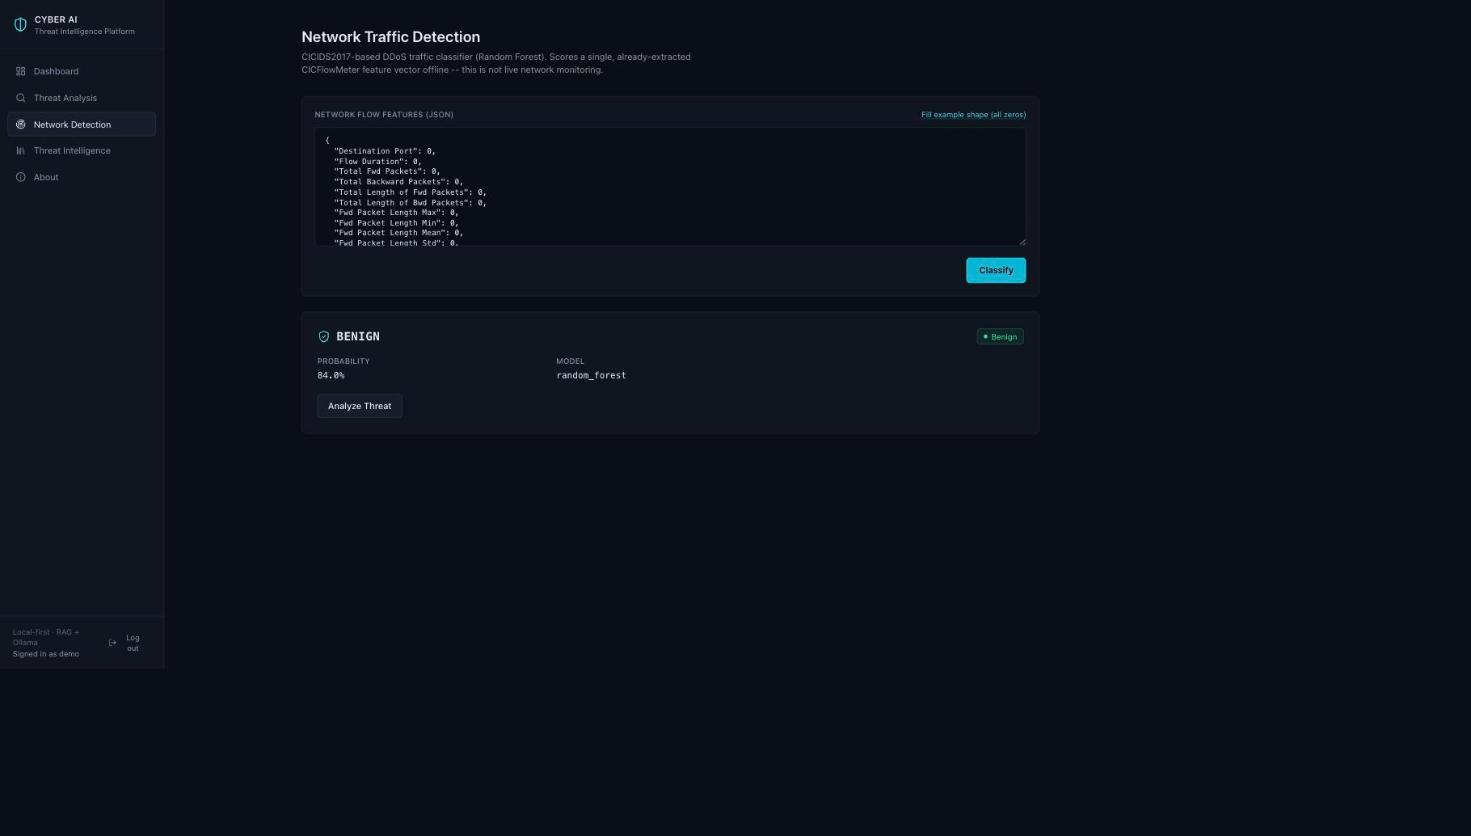
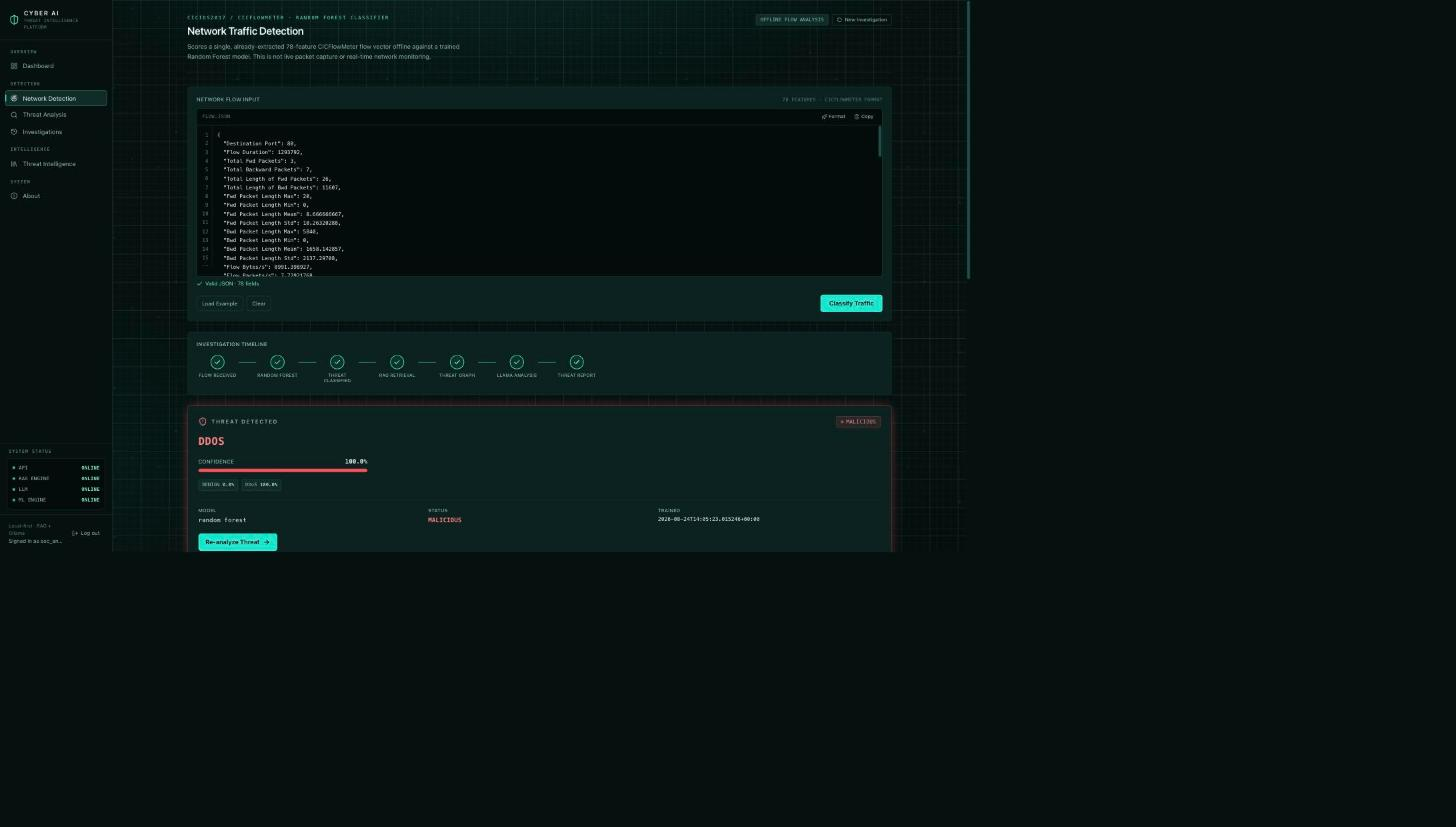
docs: finalize product documentation and screenshots

diff --git a/RELEASE_NOTES.md b/RELEASE_NOTES.md
@@ -5,18 +5,27 @@ history. This describes the state of the repository at the end of its final engi
 
 ## Frontend
 
-React (Vite + TypeScript + Tailwind) single-page dashboard: login-gated routing, a threat-analysis
-query page, a network-traffic classification page, a threat-intelligence graph view, and an about
-page. Talks to the backend directly (cross-origin, credentialed requests), not through a proxy.
-Served in production by an nginx container built from the static `vite build` output.
+React (Vite + TypeScript + Tailwind) single-page dashboard, gated behind a Login page (with a
+Register page for creating a new account): a Dashboard (live backend/RAG/LLM/classifier status), a
+Network Detection page (classify a CICFlowMeter-style flow, optionally run AI analysis, save the
+result to an investigation), a Threat Analysis query page, a Threat Intelligence page, an
+Investigations page (a registered account's saved investigation history — reopen or permanently
+delete an investigation, with a confirmation dialog before deleting), and an About page. Talks to
+the backend directly (cross-origin, credentialed requests), not through a proxy. Served in
+production by an nginx container built from the static `vite build` output.
 
 ## Backend API
 
-FastAPI service exposing 14 endpoints across three groups: public (`/`, `/health`, `/ready`,
-`/threats`, `/intelligence/entities`, `/intelligence/graph/{threat_id}`), authentication
-(`/auth/login`, `/auth/logout`, `/auth/me`), and protected (`/analyze`, `/classify`,
-`/ml/feature-importance`, `/analyze/classification`, `/intelligence/search`). See README **Backend
-Endpoints** and **Authentication** for the exact, current, verified list.
+FastAPI service exposing 22 endpoints across three groups: public (`/`, `/health`, `/ready`,
+`/metrics`, `/threats`, `/intelligence/entities`, `/intelligence/graph/{threat_id}`), authentication
+(`/auth/register`, `/auth/login`, `/auth/logout`, `/auth/me`), and protected (`/analyze`,
+`/classify`, `/ml/feature-importance`, `/analyze/classification`, `/intelligence/search`, and the
+`/investigations` family: `POST /investigations`, `GET /investigations`, `GET
+/investigations/{id}`, `POST /investigations/{id}/classification-results`, `POST
+/investigations/{id}/classification-results/{id}/analysis-result`, and `DELETE
+/investigations/{investigation_id}` — create/list/view/delete a persistent investigation and persist
+an already-computed classification/analysis result into one). See README **Backend Endpoints** and
+**Authentication** for the exact, current, verified list.
 
 ## ML detection
 
@@ -59,8 +68,11 @@ latency. Never trains, retrains, or modifies the production model or dataset. Se
 
 API-key and browser-session (HttpOnly cookie + CSRF double-submit) authentication, an explicit CORS
 allowlist, IP-keyed rate limiting, request-ID correlation, structured JSON logging, and standard
-security response headers. See README **Security Checklist** for the consolidated, section-linked
-status of every control.
+security response headers. Persistent investigations are session-user-only (never available to
+API-key callers or the demo/bootstrap login) and every read/write is scoped to the requesting
+user's own account directly in the database query — a nonexistent investigation and one owned by a
+different user are both a `404`, never a data leak. See README **Security Checklist** for the
+consolidated, section-linked status of every control.
 
 ## Deployment architecture
 

diff --git a/README.md b/README.md
@@ -74,8 +74,19 @@ caveat in detail.
 
 ## Screenshots
 
-Real captures from a local run against the real backend, real trained classifier, and real Ollama
-model — not mockups.
+Real captures from a local run against the real backend, real trained classifier, real Ollama
+model, and a real registered account — not mockups, and not the demo/bootstrap session.
+
+**Dashboard** — live backend/RAG/LLM/classifier status for the signed-in account, plus that
+account's most recent saved investigation:
+
+![Dashboard page showing live API, RAG engine, vector store, LLM, and ML engine status, plus a Recent Investigation card for a BENIGN result](docs/screenshots/dashboard.jpg)
+
+**Network Detection** — a real CICIDS2017 DDoS flow, classified by the Random Forest model, with
+the full Investigation Timeline (classification → RAG retrieval → threat graph → LLM analysis →
+threat report) already complete:
+
+![Network Detection page showing a DDoS classification at 100% confidence and a completed Investigation Timeline](docs/screenshots/network-detection.jpg)
 
 **Threat Analysis** — a real `/analyze` query ("How can DDoS attacks be mitigated?"), showing the
 deterministic MITRE ATT&CK technique, graph-derived mitigations, and source attribution alongside
@@ -83,15 +94,24 @@ the LLM-generated narrative:
 
 ![Threat Analysis page showing a DDoS attack analysis with severity, MITRE ATT&CK technique T1498, indicators, mitigations, and source attribution](docs/screenshots/threat-analysis.jpg)
 
-**Network Detection** — the Random Forest classifier scoring a CICFlowMeter-style feature vector
-(the all-zero example shape, not real captured traffic):
-
-![Network Detection page showing a BENIGN classification result with 84% probability from the random_forest model](docs/screenshots/network-detection.jpg)
-
 **Threat Intelligence graph** — the deterministic, one-hop relationship graph for one threat entity,
 rendered as a radial node-link diagram (plain SVG, no charting library):
 
 ![Threat Intelligence graph view showing the DDoS Attack entity with its technique, indicator, mitigation, and source relationships](docs/screenshots/threat-intelligence-graph.png)
+
+**Investigations** — a registered account's saved investigation history, most-recently-updated
+first, each with a Delete action:
+
+![Investigations page showing two saved investigations, one BENIGN and one malicious DDoS](docs/screenshots/investigations.jpg)
+
+**Investigation detail** — reopening a saved investigation shows its classification result and its
+full AI threat analysis together:
+
+![Investigation detail page showing a saved DDoS classification alongside its full AI threat analysis, MITRE technique, and intelligence sources](docs/screenshots/investigation-detail.jpg)
+
+**Delete confirmation** — deleting an investigation always asks first:
+
+![Delete confirmation dialog for a saved investigation, warning that the action is permanent](docs/screenshots/delete-confirmation.jpg)
 
 ## Architecture
 
